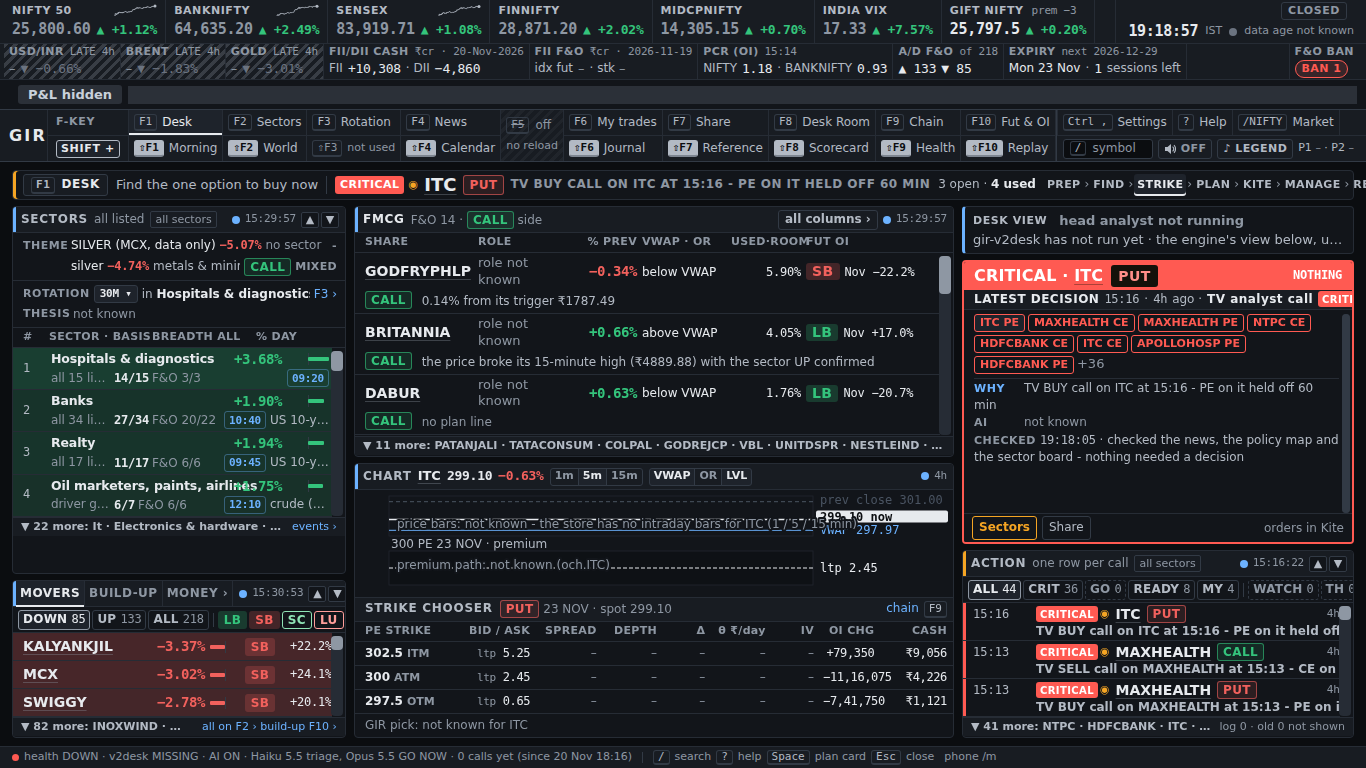
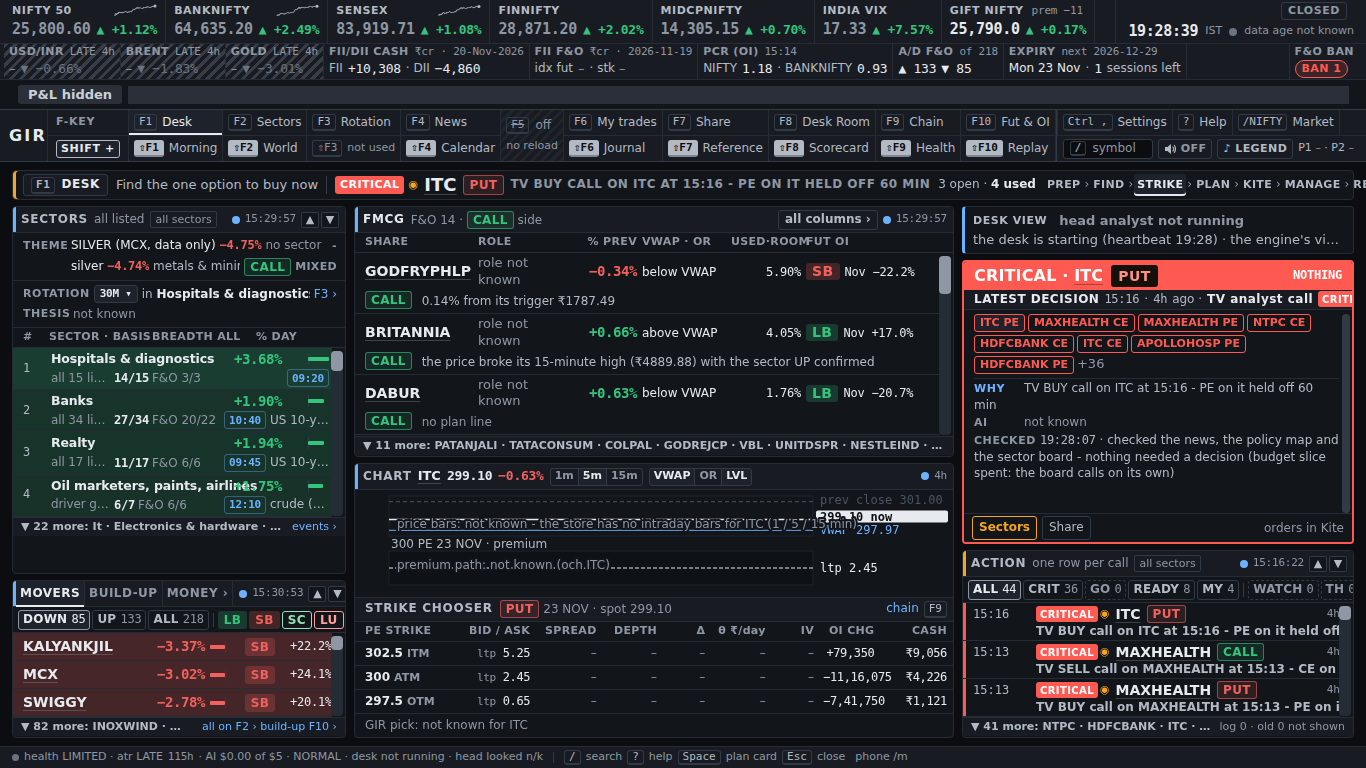
monday: first desk shadow: 13 of 14 seats PASS, R2 timeout

diff --git a/intraday_patches/monday/STATUS.md b/intraday_patches/monday/STATUS.md
@@ -2,7 +2,7 @@
 
 One row per checklist item (MONDAY_READY.md). Proof files are in this folder. An item without proof is NOT DONE.
 
-Last update: 19:25 IST
+Last update: 19:29 IST
 
 | item | status | note | proof | time |
 |---|---|---|---|---|
@@ -78,3 +78,4 @@ Last update: 19:25 IST
 - 18:54 - THE TRADER (desk 18:00-19:45): build the WHOLE new desk now (DESK_TEAM.md final: 40 seats / 10 benches + head) - Monday MINIMUM first (desk service gir-v2desk, SQLite DESK BOARD + validators, snapshot (done), J11 hard $5 gate with sub-budgets, scheduler / wake rules, HEAD, FLOWS, CONNECTIONS, DEVIL, R1 filings reader, seat-15 second read), then every bench, then the web Desk Room + phone + Telegram (section 6, a second builder). Seat prompts load from intraday_patches/desk/prompts/ (landing tonight) - not written by the server. ANALYST steps 2-3 built + dry-tested (brain.py, thesis book, contract.py gates, brief.py on the NSE calendar; ANALYST_2_brain.md, ANALYST_3_brief.md); no real model call yet. Cadence set to DESK_TEAM's LEAN design; $5 hard cap includes any reserve; the ladder counts only the parts live on Monday. REHEARSAL (new desk on recorded 18 / 19 / 20 Nov) after the build; one-off ~$15 Opus layer approved on its own budget line. Crypto removed; 8-core resize not approved; daily cap $5. Old engine replays are not the test. Sunday noon: honest MINIMUM-or-fallback report; Sunday 19:45: first evening brief.
 - 19:05 - DESK core (a) PLUMBING BUILT: J11 gate (hard $5.00 total; buckets MEET 1.50 / LIVE 1.30 / READ 1.00 / SEATS 0.90 / ASK 0.30; counts only the desk's own calls; old-system parts listed as not counted; whether the v2 news reader (~$2.6/day) counts is an OPEN desk decision), SQLite append-only DESK BOARD, validators, the 4.3a head scheduler (45-min heartbeat + triggers, Devil before head), head BUY NOW chain (second read + Devil's objection enforced in code), all 46 seats in the roster, code seats on, FLOWS 5-day sum honest ('not known (3 days)' until 5 NSDL days exist); 13 tests, dry run of the 19:45 meeting passes with fake brains. AI seats + HEAD are OFF until desk/prompts/ lands. DESK_api.md published (13 store keys live in gir-preview, MISSING until gir-v2desk runs); pages builder wiring the Desk Room. Next: the rehearsal harness (stub layer). gir-v2desk install approved by the trader - after the harness passes.
 - 19:25 - gir-v2desk INSTALLED + running (the trader's yes; 15 tests passed first; started 19:23:39): code seats 32 / 33 writing cards to the DESK BOARD, J11 meter $0 of $5 (budget day Fri 15:40 -> Mon 15:40), Telegram OFF (WOULD SEND), login 0.06 s. Desk prompts synced from the branch: R1-R6 + seats 1-8 (14 files); head (H), CONTRACTS.md and seats 9-40 not landed yet - the head shows 'head analyst not running' and no AI money is spent until they land and pass a shadow run. Stub rehearsal of 18 / 19 / 20 Nov running (no AI); the $15 Opus rehearsal waits for the prompts.
+- 19:29 - first DESK SHADOW (the 14 seats with prompts, tonight's news, own folder, ~$0.25): 13 of 14 PASS (readers R1 / R3 / R4 / R5 / R6 and seats 1-8 made valid cards); R2 wires reader timed out after 40 s - fix sent; file DESK_shadow_20261120-1359.md (its title time is UTC by mistake - IST fix sent). Seats switch on only after the Saturday / Sunday --apply shadows.

diff --git a/intraday_patches/monday/DESK_shadow_20261120-1355.md b/intraday_patches/monday/DESK_shadow_20261120-1355.md
@@ -1,0 +1,18 @@
+# DESK SHADOW CHECK 20 Nov 13:55 IST (DRY: FAKE brains) - one run per seat on the live store (own folder /home/globalbot/intraday/v2/data/desk/shadow/20261120-135556)
+
+| seat | name | bucket | PASS | $ | calls | s | result | invalid answers |
+|---|---|---|---|---|---|---|---|---|
+| R1 | Filings reader | READ | PASS | 0 | 1 | 2.6 | card ['C:9ee2d733', 'C:9ee2d733', 'C:9ee2d733'] |  |
+| R2 | Wires reader | READ | PASS | 0 | 1 | 0.0 | card ['C:f961fc55', 'C:f961fc55', 'C:f961fc55', 'C:f961fc55', 'C:f961fc55', 'C:f961fc55',  |  |
+| R3 | TV reader | READ | PASS | 0 | 1 | 0.0 | card ['C:de45f79a', 'C:de45f79a', 'C:de45f79a', 'C:de45f79a'] |  |
+| R4 | Policy reader | READ | no | 0 | 0 | 0.0 | nothing to read in the live store now (reader not tested) |  |
+| R5 | World reader | READ | no | 0 | 0 | 0.0 | nothing to read in the live store now (reader not tested) |  |
+| R6 | Story matcher | READ | PASS | 0 | 1 | 0.1 | card ['C:a59121af', 'C:a59121af', 'C:a59121af', 'C:a59121af', 'C:a59121af', 'C:a59121af',  |  |
+| 1 | US markets and AI / tech | SEATS | PASS | 0 | 1 | 0.0 | card C:cc2181cb |  |
+| 2 | US policy and rates | SEATS | PASS | 0 | 1 | 0.0 | card C:e8a8e52a |  |
+| 3 | China and North Asia | SEATS | PASS | 0 | 1 | 0.0 | card C:4ab406b1 |  |
+| 4 | Europe, Middle East, geopolitics | SEATS | PASS | 0 | 1 | 0.0 | card C:202a5096 |  |
+| 5 | EM money rotation | SEATS | PASS | 0 | 1 | 0.0 | card C:1b6090bc |  |
+| 6 | Energy | SEATS | PASS | 0 | 1 | 0.0 | card C:5c1c2b52 |  |
+| 7 | Base metals and steel | SEATS | PASS | 0 | 1 | 0.0 | card C:d42d919c |  |
+| 8 | Precious metals and agri | SEATS | PASS | 0 | 1 | 0.0 | card C:910aa805 |  |

diff --git a/intraday_patches/monday/DESK_shadow_20261120-1359.md b/intraday_patches/monday/DESK_shadow_20261120-1359.md
@@ -1,0 +1,18 @@
+# DESK SHADOW CHECK 20 Nov 13:59 IST - one run per seat on the live store (own folder /home/globalbot/intraday/v2/data/desk/shadow/20261120-135657)
+
+| seat | name | bucket | PASS | $ | calls | s | result | invalid answers |
+|---|---|---|---|---|---|---|---|---|
+| R1 | Filings reader | READ | PASS | 0.002 | 1 | 13.6 | card [] |  |
+| R2 | Wires reader | READ | no | 0 | 1 | 40.7 | model call failed: no model answered (APITimeoutError: Request timed out or interrupted. T | call failed: no model answered (APITimeoutError: Request tim |
+| R3 | TV reader | READ | PASS | 0.0012 | 1 | 3.7 | card [] |  |
+| R4 | Policy reader | READ | PASS | 0.0016 | 1 | 6.0 | card [] |  |
+| R5 | World reader | READ | PASS | 0.0029 | 1 | 15.9 | card ['C:1ef14392'] |  |
+| R6 | Story matcher | READ | PASS | 0.0024 | 1 | 10.7 | card [] |  |
+| 1 | US markets and AI / tech | SEATS | PASS | 0.0273 | 1 | 6.7 | card C:10d251ec |  |
+| 2 | US policy and rates | SEATS | PASS | 0.0283 | 1 | 5.9 | card C:6f7aa4fc |  |
+| 3 | China and North Asia | SEATS | PASS | 0.0308 | 1 | 7.2 | card C:6e1a7b9f |  |
+| 4 | Europe, Middle East, geopolitics | SEATS | PASS | 0.0289 | 1 | 6.8 | card C:e0416d34 |  |
+| 5 | EM money rotation | SEATS | PASS | 0.0274 | 1 | 6.8 | card C:3b244800 |  |
+| 6 | Energy | SEATS | PASS | 0.0299 | 1 | 6.3 | card C:dca4bd5b |  |
+| 7 | Base metals and steel | SEATS | PASS | 0.0302 | 1 | 6.5 | card C:7b89d4ae |  |
+| 8 | Precious metals and agri | SEATS | PASS | 0.0353 | 1 | 8.7 | card C:03f4b3e4 |  |

diff --git a/intraday_patches/monday/DESK_shadow_20261120-1356.md b/intraday_patches/monday/DESK_shadow_20261120-1356.md
@@ -1,0 +1,10 @@
+# DESK SHADOW CHECK 20 Nov 13:56 IST (DRY: FAKE brains) - one run per seat on the live store (own folder /home/globalbot/intraday/v2/data/desk/shadow/20261120-135615)
+
+| seat | name | bucket | PASS | $ | calls | s | result | invalid answers |
+|---|---|---|---|---|---|---|---|---|
+| R1 | Filings reader | READ | PASS | 0 | 1 | 2.5 | card ['C:0fa1e436', 'C:b91d5df2', 'C:256577e6', 'C:b72e56df', 'C:4101bcc5', 'C:9d7db14c',  |  |
+| R2 | Wires reader | READ | PASS | 0 | 1 | 0.0 | card ['C:84071234', 'C:8bb187da', 'C:bb96bda7', 'C:e2c8b550', 'C:98311976', 'C:b7f6dab6',  |  |
+| R3 | TV reader | READ | PASS | 0 | 1 | 0.0 | card ['C:341b6cfb', 'C:28f3a341', 'C:a604e9f1', 'C:01c7a5b4', 'C:5b7f01cf'] |  |
+| R4 | Policy reader | READ | PASS | 0 | 1 | 0.0 | card ['C:2cb4e937', 'C:14d6cfb3', 'C:ecd15106', 'C:87250a1a', 'C:3fd74924', 'C:a12e4bce',  |  |
+| R5 | World reader | READ | PASS | 0 | 1 | 0.0 | card ['C:98894fce', 'C:ee39b45a', 'C:2a56bd0a', 'C:f7ecf321', 'C:7e78b21f', 'C:be2f3250',  |  |
+| R6 | Story matcher | READ | PASS | 0 | 1 | 0.1 | card ['C:7e047f7d', 'C:18839d4c', 'C:83e6044b', 'C:214ddd42', 'C:277f5c07', 'C:2be1035d',  |  |
